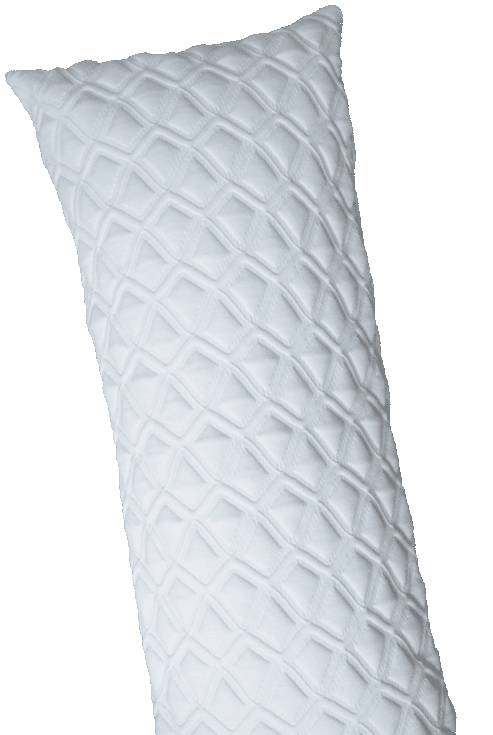
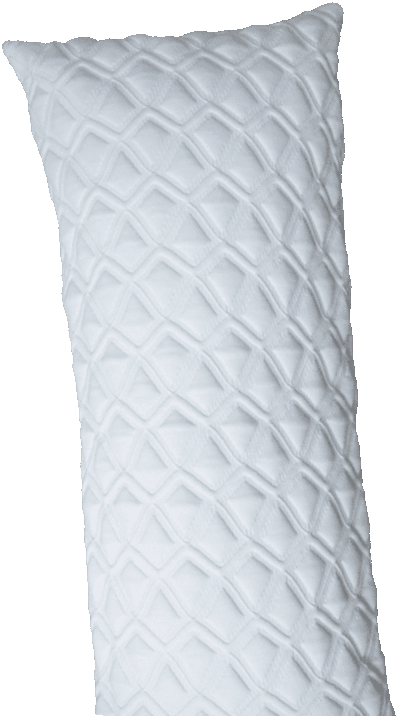
- new base pillow

diff --git a/tfbot/panels.py b/tfbot/panels.py
@@ -83,10 +83,10 @@ if not _pillow_candidate.is_absolute():
     PILLOW_IMAGE_PATH = (BASE_DIR / _pillow_candidate).resolve()
 else:
     PILLOW_IMAGE_PATH = _pillow_candidate.resolve()
-_PILLOW_POINT_TOP_LEFT = (50.0, 110.0)
-_PILLOW_POINT_TOP_RIGHT = (330.0, 70.0)
-_PILLOW_POINT_BOTTOM_LEFT = (193.0, 868.0)
-_PILLOW_POINT_BOTTOM_RIGHT = (461.0, 824.0)
+_PILLOW_POINT_TOP_LEFT = (30.0, 50.0)
+_PILLOW_POINT_TOP_RIGHT = (330.0, 28.0)
+_PILLOW_POINT_BOTTOM_LEFT = (100.0, 715.0)
+_PILLOW_POINT_BOTTOM_RIGHT = (378.0, 720.0)
 PILLOW_SURFACE_POINTS: Tuple[Tuple[float, float], ...] = (
     _PILLOW_POINT_TOP_LEFT,
     _PILLOW_POINT_TOP_RIGHT,
